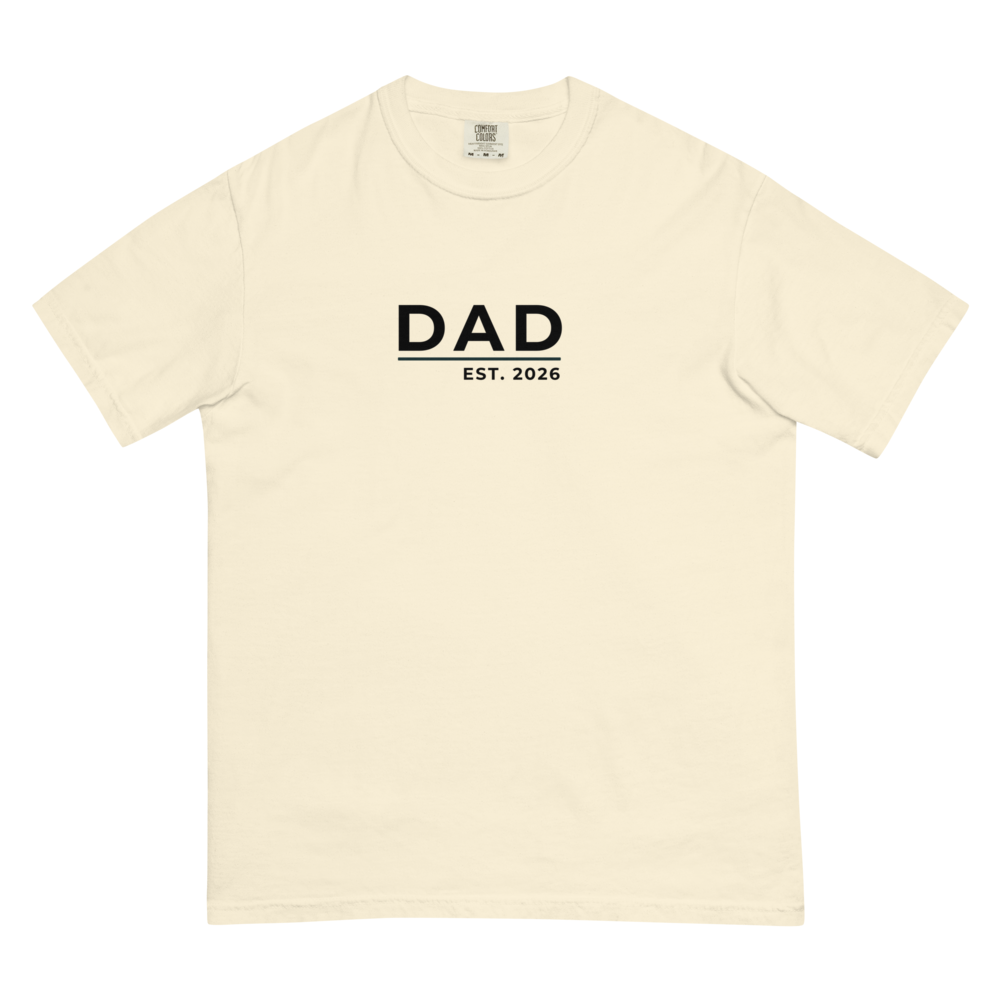
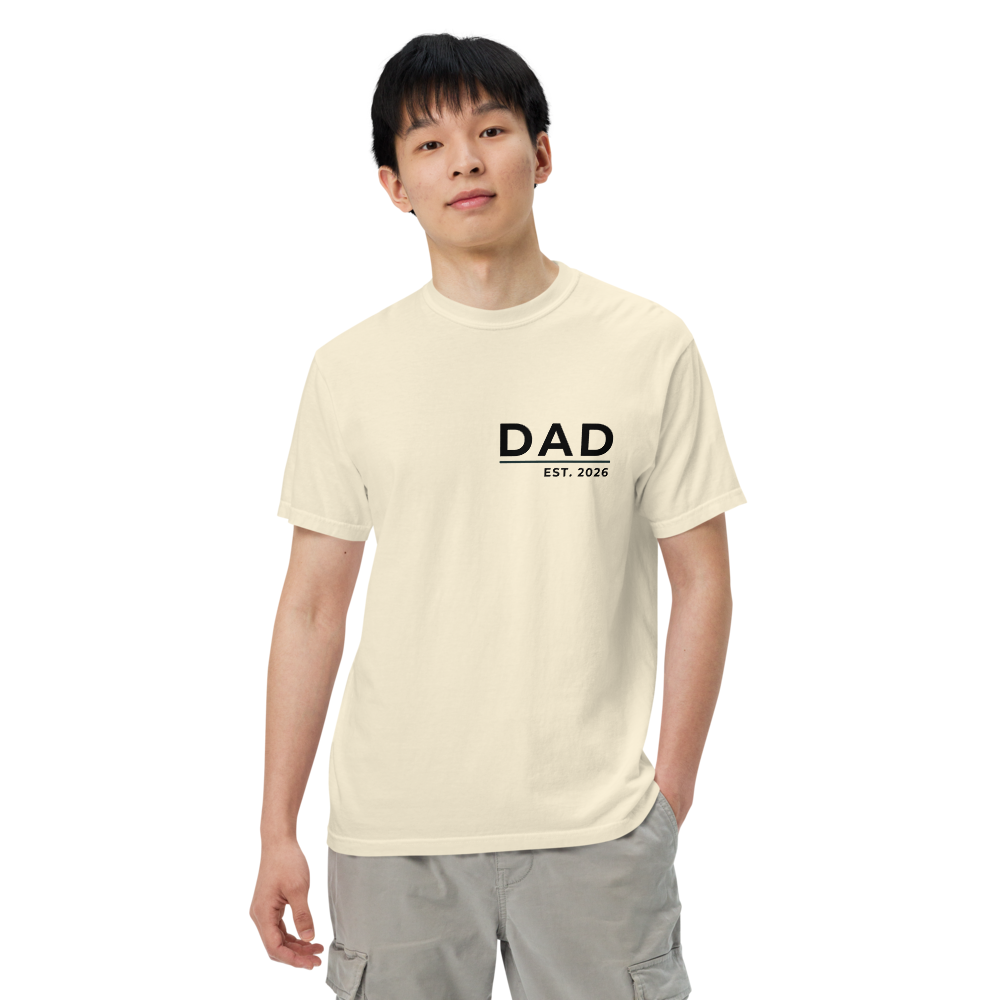
Replace shirt renders with real on-model Printful photos, rework /merch layout
The flat-lay shirt mockups we generated ourselves had the DAD EST. 2026
front logo centered and oversized - same bug class as the earlier Rookie
hat issue. Real placement is a small left-chest hit, confirmed by viewing
Printful's own dashboard renders (product thumbnails, variant list, and
the Basic Mockups picker all agree). Rather than re-guess new position/size
numbers for our own mockup-generator call, pulled the real front/back
photos directly from Printful's 'Download all mockups' export, which
renders from the product's actual saved placement - a real model wearing
the shirt, correct logo position, no guessing.

Also reworked /merch so it doesn't read as 'the hat page with a shirt
section bolted on':
- Hero is now product-agnostic ('Dudela gear') with quick-jump pills to
  Hats/Shirts instead of hat-only copy.
- Hats section now gets the same header treatment (title + tagline) the
  shirts section already had, so the two feel symmetric.
- Perks section copy no longer says 'the hat' - generic across both
  products.

mockups-shirt.ts left in place as a reference for the create-task/poll
flow, with a comment explaining it's no longer the source of the live
images.

diff --git a/src/pages/api/admin/mockups-shirt.ts b/src/pages/api/admin/mockups-shirt.ts
@@ -3,6 +3,18 @@ import { isAdminAuthed } from "../../../lib/auth";
 
 export const prerender = false;
 
+// SUPERSEDED as the source of the live public/images/shirts/*.png files
+// (2026-08-13): the front position/size this script guesses below turned out
+// wrong — real placement is a small left-chest hit, not centered — the same
+// class of bug the Rookie hat hit earlier. Rather than re-guess new numbers,
+// the live front/back photos were pulled directly from Printful's dashboard
+// "Choose mockups" export (Products → DUDELA Shirt / Ivory → Edit design →
+// Basic mockups → Download all mockups), which renders using the product's
+// real saved placement — no guessing required. This script is kept around
+// as a working reference for the async create-task/poll flow and for
+// regenerating FLAT/ghost-style images if ever needed, but is not what's
+// live on /merch today.
+//
 // Sibling to mockups.ts, kept as a separate file rather than extending that
 // one — shirts are DTG prints (front/back placements, catalog product 586)
 // with completely different area math than the caps' embroidery placements,
